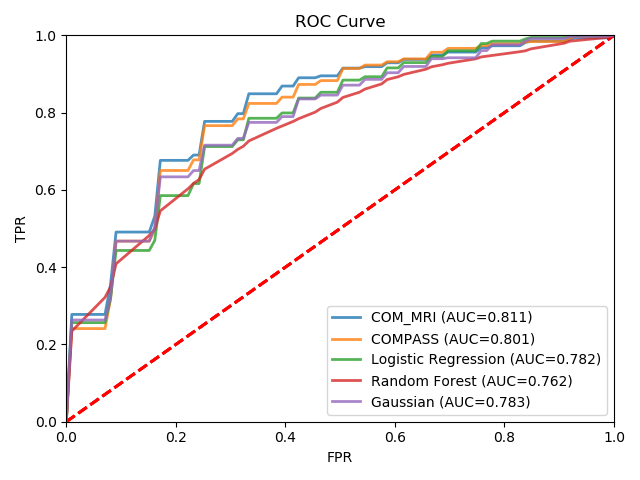
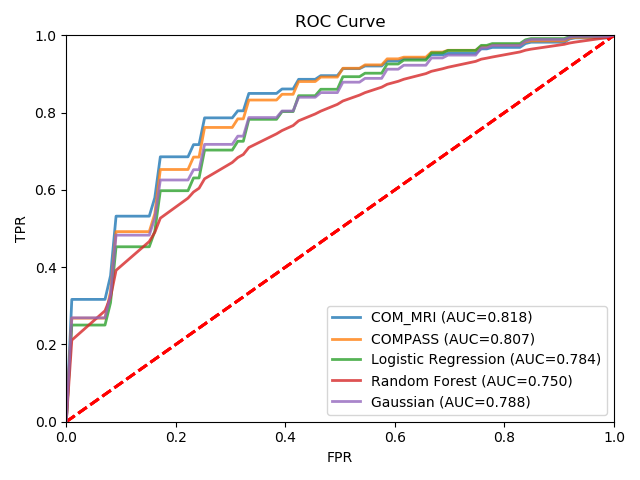
Precision-Recall curve updated.

diff --git a/svm.py b/svm.py
@@ -87,10 +87,11 @@ def roccurve_comparison():
     labels = ['COM_MRI', 'COMPASS', 'Logistic Regression', 'Random Forest', 'Gaussian']
     classifiers = [
         # SVC(kernel='poly', C=10, class_weight={0: 1, 1: 2}, gamma=1, degree=1, coef0=100, probability=True),
-        SVC(kernel='poly', C=10, class_weight={0: 1, 1: 1}, gamma=1, degree=1, coef0=0.1, probability=True),
-        LinearSVC(class_weight={0: 4, 1: 1}),
+        SVC(kernel='rbf', C=10, class_weight={0: 1, 1: 2}, gamma=0.1, probability=True),
+        # SVC(kernel='poly', C=10, class_weight={0: 1, 1: 1}, gamma='auto', degree=3, coef0=100, probability=True),
+        LinearSVC(class_weight={0: 2, 1: 1}),
         LogisticRegression(solver='liblinear'),
-        RandomForestClassifier(),
+        RandomForestClassifier(n_estimators=100),
         GaussianProcessClassifier(random_state=0)]
     index = 0
     for classifier in classifiers:
@@ -129,66 +130,6 @@ def roccurve_comparison():
     plt.show()
 
 
-def pre_rec_curve():
-    df = pd.read_csv('./data_genetic/imaging_data.csv')
-    data = df.iloc[:, 0:12].copy()
-    # original data
-    MCI = data[data.DX_bl == 2].copy()
-    MCI_o = MCI.drop(columns=['RID', 'DX_bl', 'ADNI_MEM', 'ADNI_EF', 'deltaMMSE'])
-    # with ADNI features
-    MCI_ADNI = MCI.drop(columns=['RID', 'DX_bl', 'deltaMMSE'])
-
-    # basic clinical features + imaging feature
-    imaging = df.iloc[:, 12:].copy()  # imaging data
-    MCI_img = MCI.drop(columns=['RID', 'DX_bl', 'deltaMMSE'])
-    arg_max = [986, 2006, 1904, 2080]
-    for i in range(len(arg_max)):
-        MCI_img['img_feature{}'.format(i)] = imaging.iloc[:, arg_max[i]]
-    data = [MCI_o, MCI_ADNI, MCI_img]
-
-    labels = ['Basic clinical features', 'With ADNI features', 'With ADNI and MRI features']
-    classifiers = [
-        SVC(kernel='poly', C=1, class_weight='balanced', gamma=1, degree=1, coef0=1, probability=True),
-        SVC(kernel='poly', C=10, class_weight={0: 1, 1: 2}, gamma=1, degree=1, coef0=100, probability=True),
-        SVC(kernel='poly', C=10, class_weight={0: 1, 1: 1}, gamma=1, degree=1, coef0=0.1, probability=True)]
-
-    mean_auc = [0.542099111085515, 0.6942346098001678, 0.7305958083989638]
-
-    index = 0
-    for d in data:
-        y = d.pop('DECLINED').values
-        X = MinMaxScaler(feature_range=(0, 1)).fit_transform(d.values)
-        aucs = []
-        svc = classifiers[index]
-        # cv = RepeatedStratifiedKFold(n_splits=10, n_repeats=100, random_state=9)
-
-        # for train, test in cv.split(X, y):
-        #     probas_ = svc.fit(X[train], y[train]).decision_function(X[test])
-        #     # precision, recall, thresholds = precision_recall_curve(y[test], probas_)
-        #     # plt.step(recall, precision, color='b', alpha=0.2)
-        #     pre_rec_auc = average_precision_score(y[test], probas_)
-        #     aucs.append(pre_rec_auc)
-        # mean_auc = np.mean(aucs)
-
-        # X_train, X_test, y_train, y_test = train_test_split(X, y, test_size=0.5,random_state=15)
-        # X_train, X_test, y_train, y_test = train_test_split(X, y, test_size=0.5,random_state=18)
-        # X_train, X_test, y_train, y_test = train_test_split(X, y, test_size=0.5,random_state=27)
-        X_train, X_test, y_train, y_test = train_test_split(X, y, test_size=0.5, random_state=34)
-        yscore = svc.fit(X_train, y_train).decision_function(X_test)
-        precision, recall, thresholds = precision_recall_curve(y_test, yscore)
-        auc = average_precision_score(y_test, yscore)
-        print(auc)
-        plt.plot(recall, precision, label=r'%s (AUC=%0.3f)' % (labels[index], mean_auc[index]), lw=2, alpha=.8)
-        plt.xlim([0, 1])
-        plt.ylim([0, 1])
-        plt.xlabel('Recall')
-        plt.ylabel('Precision')
-        plt.title('Precision-Recall Curve')
-        plt.legend(loc='lower right', fontsize=10)
-        index += 1
-    plt.show()
-
-
 def pre_rec_curve_comparison():
     df = pd.read_csv('./data_genetic/imaging_data.csv')
     data = df.iloc[:, 0:12].copy()
@@ -208,10 +149,11 @@ def pre_rec_curve_comparison():
 
     classifiers = [
         # SVC(kernel='poly', C=10, class_weight={0: 1, 1: 2}, gamma=1, degree=1, coef0=100, probability=True),
-        SVC(kernel='poly', C=10, class_weight={0: 1, 1: 1}, gamma=1, degree=1, coef0=0.1, probability=True),
-        LinearSVC(class_weight={0: 4, 1: 1}),
+        SVC(kernel='rbf', C=10, class_weight={0: 1, 1: 2}, gamma=0.1, probability=True),
+        # SVC(kernel='poly', C=10, class_weight={0: 1, 1: 1}, gamma='auto', degree=3, coef0=100, probability=True),
+        LinearSVC(class_weight={0: 2, 1: 1}),
         LogisticRegression(solver='liblinear'),
-        RandomForestClassifier(n_estimators=10),
+        RandomForestClassifier(n_estimators=100),
         GaussianProcessClassifier(random_state=0)]
     index = 0
     for classifier in classifiers:
@@ -233,6 +175,72 @@ def pre_rec_curve_comparison():
         index += 1
 
 
+def pre_rec_curve():
+    df = pd.read_csv('./data_genetic/imaging_data.csv')
+    data = df.iloc[:, 0:12].copy()
+    # original data
+    MCI = data[data.DX_bl == 2].copy()
+    MCI_o = MCI.drop(columns=['RID', 'DX_bl', 'ADNI_MEM', 'ADNI_EF', 'deltaMMSE'])
+    # with ADNI features
+    MCI_ADNI = MCI.drop(columns=['RID', 'DX_bl', 'deltaMMSE'])
+
+    # basic clinical features + imaging feature
+    imaging = df.iloc[:, 12:].copy()  # imaging data
+    MCI_img = MCI.drop(columns=['RID', 'DX_bl', 'deltaMMSE'])
+    arg_max = [986, 2006, 1904, 2080]
+    for i in range(len(arg_max)):
+        MCI_img['img_feature{}'.format(i)] = imaging.iloc[:, arg_max[i]]
+    # data = [MCI_o, MCI_ADNI, MCI_img]
+    data = [MCI_ADNI, MCI_img]
+
+    # labels = ['Basic clinical features', 'With ADNI features', 'With ADNI and MRI features']
+    labels = ['With ADNI features', 'With ADNI and MRI features']
+    classifiers = [
+        # SVC(kernel='poly', C=1, class_weight='balanced', gamma=1, degree=1, coef0=1, probability=True),
+        SVC(kernel='poly', C=10, class_weight={0: 1, 1: 2}, gamma=1, degree=1, coef0=100, probability=True),
+        # SVC(kernel='poly', C=10, class_weight={0: 1, 1: 1}, gamma=1, degree=1, coef0=0.1, probability=True),
+        SVC(kernel='rbf', C=10, class_weight={0: 1, 1: 2}, gamma=0.1, probability=True)]
+
+    # mean_auc = [0.542099111085515, 0.6942346098001678, 0.7305958083989638]
+    mean_auc = [0.6942346098001678, 0.7305958083989638]
+
+    index = 0
+    for d in data:
+        y = d.pop('DECLINED').values
+        X = MinMaxScaler(feature_range=(0, 1)).fit_transform(d.values)
+        aucs = []
+        svc = classifiers[index]
+        # cv = RepeatedStratifiedKFold(n_splits=10, n_repeats=100, random_state=9)
+
+        # for train, test in cv.split(X, y):
+        #     probas_ = svc.fit(X[train], y[train]).decision_function(X[test])
+        #     # precision, recall, thresholds = precision_recall_curve(y[test], probas_)
+        #     # plt.step(recall, precision, color='b', alpha=0.2)
+        #     pre_rec_auc = average_precision_score(y[test], probas_)
+        #     aucs.append(pre_rec_auc)
+        # mean_auc = np.mean(aucs)
+
+        # X_train, X_test, y_train, y_test = train_test_split(X, y, test_size=0.5,random_state=15)
+        # X_train, X_test, y_train, y_test = train_test_split(X, y, test_size=0.5,random_state=18)
+        # X_train, X_test, y_train, y_test = train_test_split(X, y, test_size=0.5,random_state=27)
+        X_train, X_test, y_train, y_test = train_test_split(X, y, test_size=0.3, random_state=18)
+        yscore = svc.fit(X_train, y_train).decision_function(X_test)
+        precision, recall, thresholds = precision_recall_curve(y_test, yscore)
+        auc = average_precision_score(y_test, yscore)
+        print(auc)
+        # plt.plot(recall, precision, label=r'%s (AUC=%0.3f)' % (labels[index], mean_auc[index]), lw=2, alpha=.8)
+        plt.step(recall, precision, label=r'%s (AUC=%0.3f)' % (labels[index], mean_auc[index]), lw=2, alpha=.5)
+        print(recall)
+        plt.xlim([0, 1])
+        plt.ylim([0, 1])
+        plt.xlabel('Recall')
+        plt.ylabel('Precision')
+        plt.title('Precision-Recall Curve')
+        plt.legend(loc='lower right', fontsize=10)
+        index += 1
+    plt.show()
+
+
 def gridsearch(data, group):
     print('*** %s svm classification***' % group)
     y = data.pop('DECLINED').values
@@ -241,18 +249,35 @@ def gridsearch(data, group):
     # clf = SVC(kernel='poly', degree=1, gamma=1, probability=True)
     clf = SVC(probability=True)
     # cv = StratifiedKFold(n_splits=10, random_state=9)
-    cv = RepeatedStratifiedKFold(n_splits=10, n_repeats=100, random_state=9)
-    # params = [{'kernel': ['poly'], 'degree': [2, 3], 'gamma': [0.1, 'auto'], 'C': [0.1, 1, 10],
-    #            'class_weight': [{0: 1, 1: 2}, {0: 1, 1: 1}, 'balanced'],
-    #            'coef0': [0, 0.1, 1, 10, 100]}]
-    params = {'kernel': ['rbf'], 'gamma': [0.1, 1, 'auto'], 'C': [0.1, 100, 1, 10],
-              'class_weight': [{0: 1, 1: 2}, {0: 1, 1: 1}, 'balanced']}
+    cv = RepeatedStratifiedKFold(n_splits=10, n_repeats=10, random_state=9)
+    params = [{'kernel': ['poly'], 'degree': [3], 'gamma': [0.1, 'auto'], 'C': [0.1, 1, 10],
+               'class_weight': [{0: 1, 1: 2}, {0: 1, 1: 1}, 'balanced'],
+               'coef0': [0, 0.1, 1, 10, 100]}]
+    # params = {'kernel': ['rbf'], 'gamma': [0.1, 1, 'auto'], 'C': [0.1, 100, 1, 10],
+    #           'class_weight': [{0: 1, 1: 2}, {0: 1, 1: 1}, 'balanced']}
     scoring = make_scorer(roc_auc_score, needs_proba=True)
     grid = GridSearchCV(clf, params, scoring=scoring, cv=cv, return_train_score=False, iid=False)
     grid.fit(X, y)
     print('best AUROC score:', grid.best_score_)
     print('best parameters: ', grid.best_params_, '\n')
     # pd.DataFrame(grid.cv_results_).to_csv('./clf%s.csv' % group, index=0)
+
+
+'''
+
+E:\Miniconda3\python.exe E:/PycharmProjects/COMPASS/svm.py
+*** MCI_img svm classification***
+X.shape:  (196, 12) y.shape:  (196,)
+best AUROC score: 0.8286286630036629
+best parameters:  {'C': 10, 'class_weight': {0: 1, 1: 1}, 'coef0': 100, 'degree': 3, 'gamma': 'auto', 'kernel': 'poly'}
+
+E:\Miniconda3\python.exe E:/PycharmProjects/COMPASS/svm.py
+*** MCI_img svm classification***
+X.shape:  (196, 12) y.shape:  (196,)
+best AUROC score: 0.819996336996337
+best parameters:  {'C': 10, 'class_weight': {0: 1, 1: 2}, 'gamma': 0.1, 'kernel': 'rbf'} 
+
+'''
 
 
 def spearman(data, group):
@@ -459,7 +484,7 @@ def roc_with_imaging_data():
 if __name__ == "__main__":
     # roccurve()
     # roccurve_comparison()
-    # pre_rec_curve()
+    pre_rec_curve()
     # pre_rec_curve_comparison()
 
     # clfmci = pd.read_csv('./data_genetic/clf_MCI.csv')
@@ -477,18 +502,18 @@ if __name__ == "__main__":
     # clfmci = pd.read_csv('./data_genetic/clf_MCI_extra_data.csv')
     # cv(clfmci, 'MCI with ADNI data')
 
-    # with MRI features
-    df = pd.read_csv('./data_genetic/imaging_data.csv')
-    data = df.iloc[:, 0:12].copy()
-    # original data
-    MCI = data[data.DX_bl == 2].copy()
-    # with ADNI features
-    MCI_ADNI = MCI.drop(columns=['RID', 'DX_bl', 'deltaMMSE'])
-    # basic clinical features + imaging feature
-    imaging = df.iloc[:, 12:].copy()  # imaging data
-    MCI_img = MCI.drop(columns=['RID', 'DX_bl', 'deltaMMSE'])
-    arg_max = [986, 2006, 1904, 2080]
-    for i in range(len(arg_max)):
-        MCI_img['img_feature{}'.format(i)] = imaging.iloc[:, arg_max[i]]
-    # data = [MCI_ADNI, MCI_img]
-    gridsearch(MCI_img, 'MCI_img')
+    # # with MRI features
+    # df = pd.read_csv('./data_genetic/imaging_data.csv')
+    # data = df.iloc[:, 0:12].copy()
+    # # original data
+    # MCI = data[data.DX_bl == 2].copy()
+    # # with ADNI features
+    # MCI_ADNI = MCI.drop(columns=['RID', 'DX_bl', 'deltaMMSE'])
+    # # basic clinical features + imaging feature
+    # imaging = df.iloc[:, 12:].copy()  # imaging data
+    # MCI_img = MCI.drop(columns=['RID', 'DX_bl', 'deltaMMSE'])
+    # arg_max = [986, 2006, 1904, 2080]
+    # for i in range(len(arg_max)):
+    #     MCI_img['img_feature{}'.format(i)] = imaging.iloc[:, arg_max[i]]
+    # # data = [MCI_ADNI, MCI_img]
+    # gridsearch(MCI_img, 'MCI_img')
